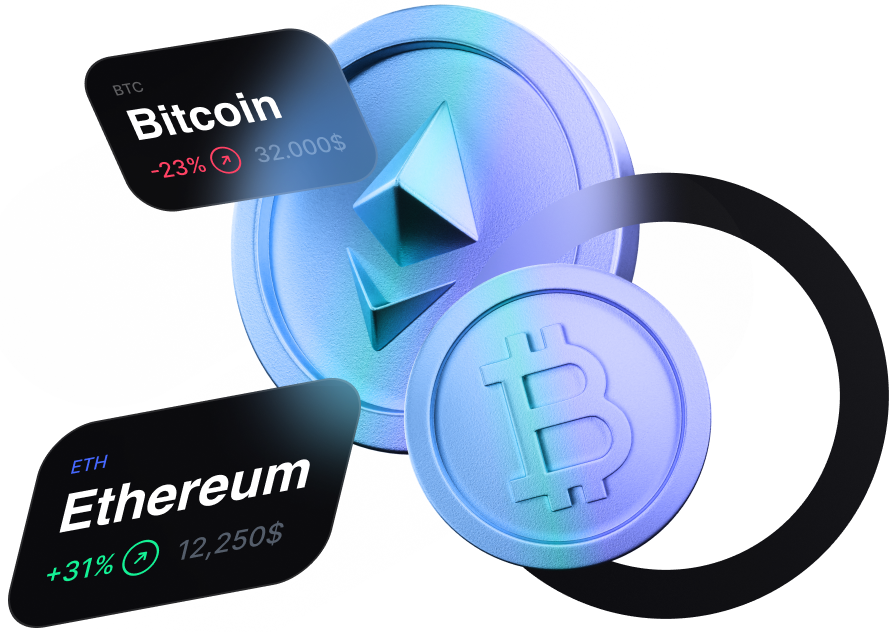
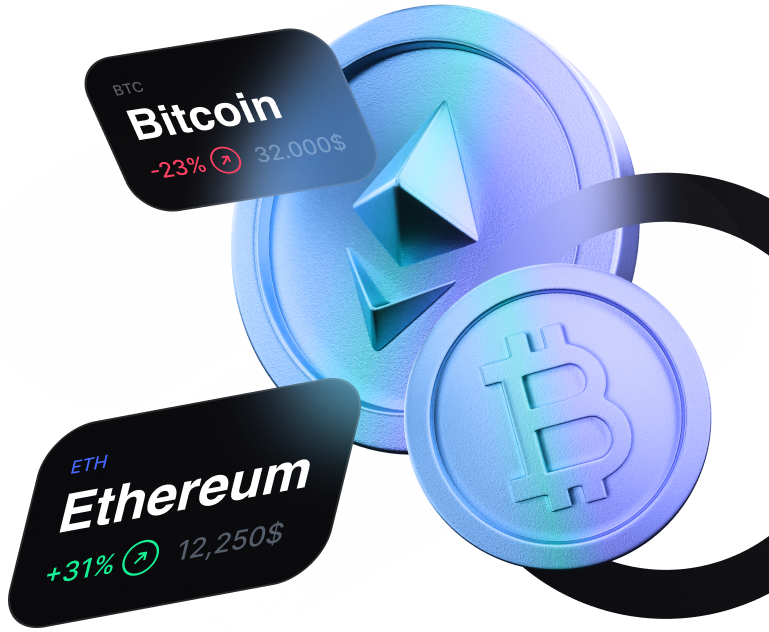
new

diff --git a/index.html b/index.html
@@ -4,12 +4,13 @@
 <head>
     <meta charset="UTF-8">
     <meta http-equiv="X-UA-Compatible" content="IE=edge">
+    <meta name="viemport" content="width=1220">
     <link rel="stylesheet" href="css/style.css">
     <link rel="shortcut icon" href="img/web-logo.png" type="image/x-icon">
     <title>ETH</title>
 </head>
 
-<body>
+<body style="min-width: 1220px;">
     <div class="wrapper">
         <nav class="nav-menu">
             <img src="img/logo.png" alt="logo">

diff --git a/style.scss b/style.scss
@@ -9,7 +9,6 @@
 
 body {
     padding: 15px;
-    overflow-x: hidden;
     background-color: #0D0D11;
     width: 100%;
     height: 100%;
@@ -229,7 +228,7 @@ body {
 .header-block_img {
     top: 30px;
     position: absolute;
-    right: -100px;
+    right: 0;
 }
 
 .history_deposits-block {

diff --git a/css/style.css b/css/style.css
@@ -10,7 +10,6 @@
 
 body {
   padding: 15px;
-  overflow-x: hidden;
   background-color: #0D0D11;
   width: 100%;
   height: 100%;
@@ -252,7 +251,7 @@ body {
 .header-block_img {
   top: 30px;
   position: absolute;
-  right: -100px;
+  right: 0;
 }
 
 .history_deposits-block {
